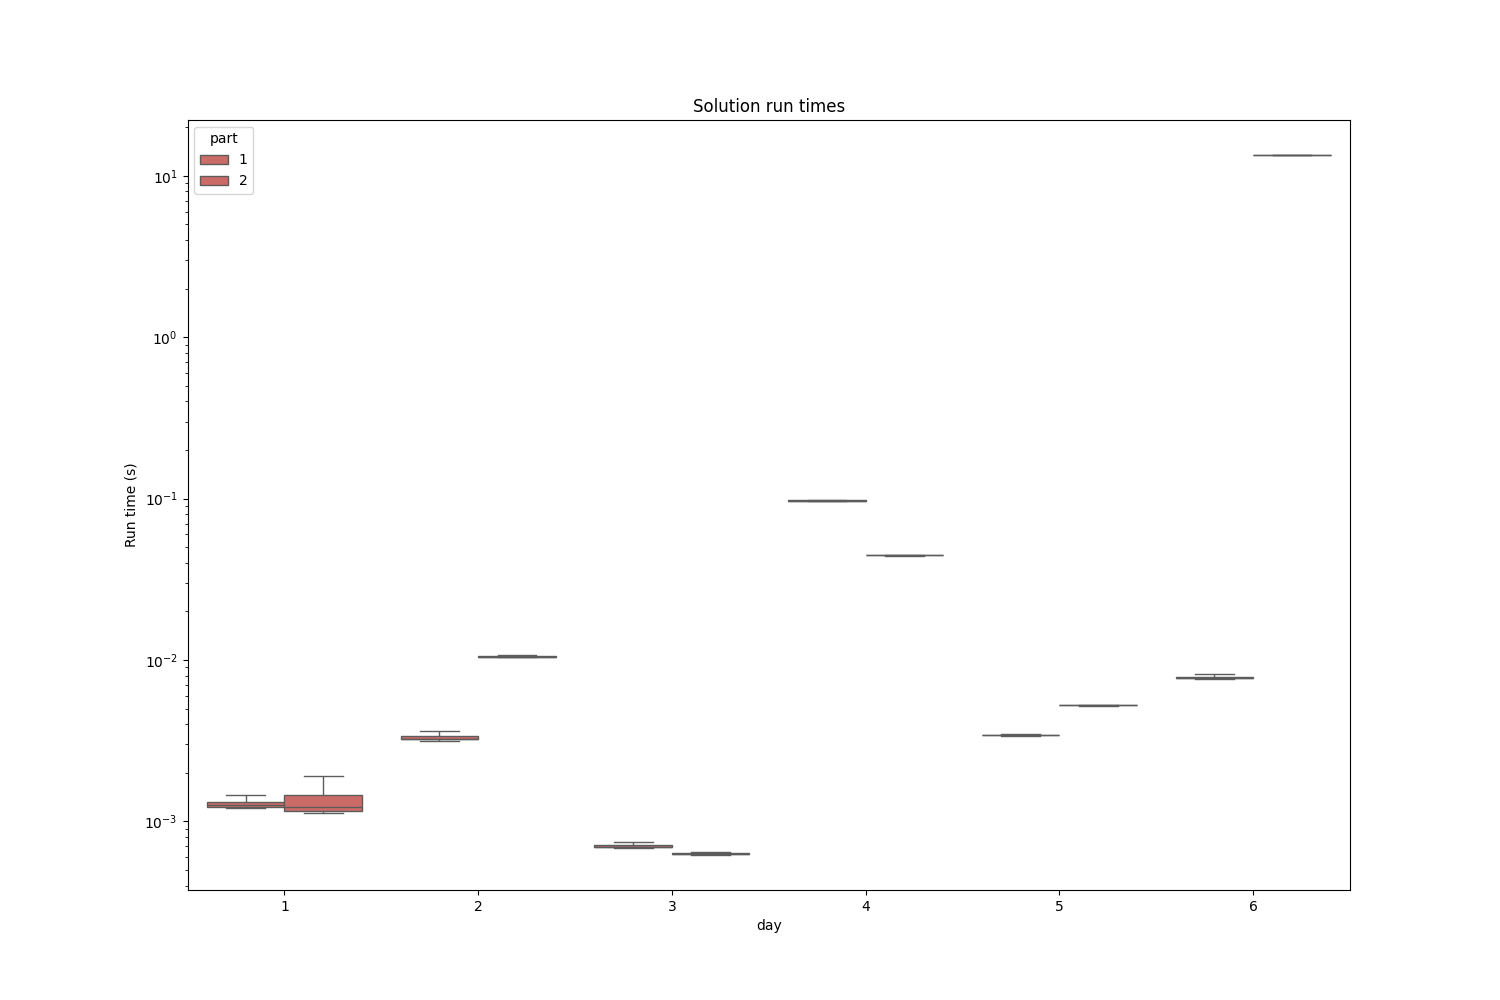
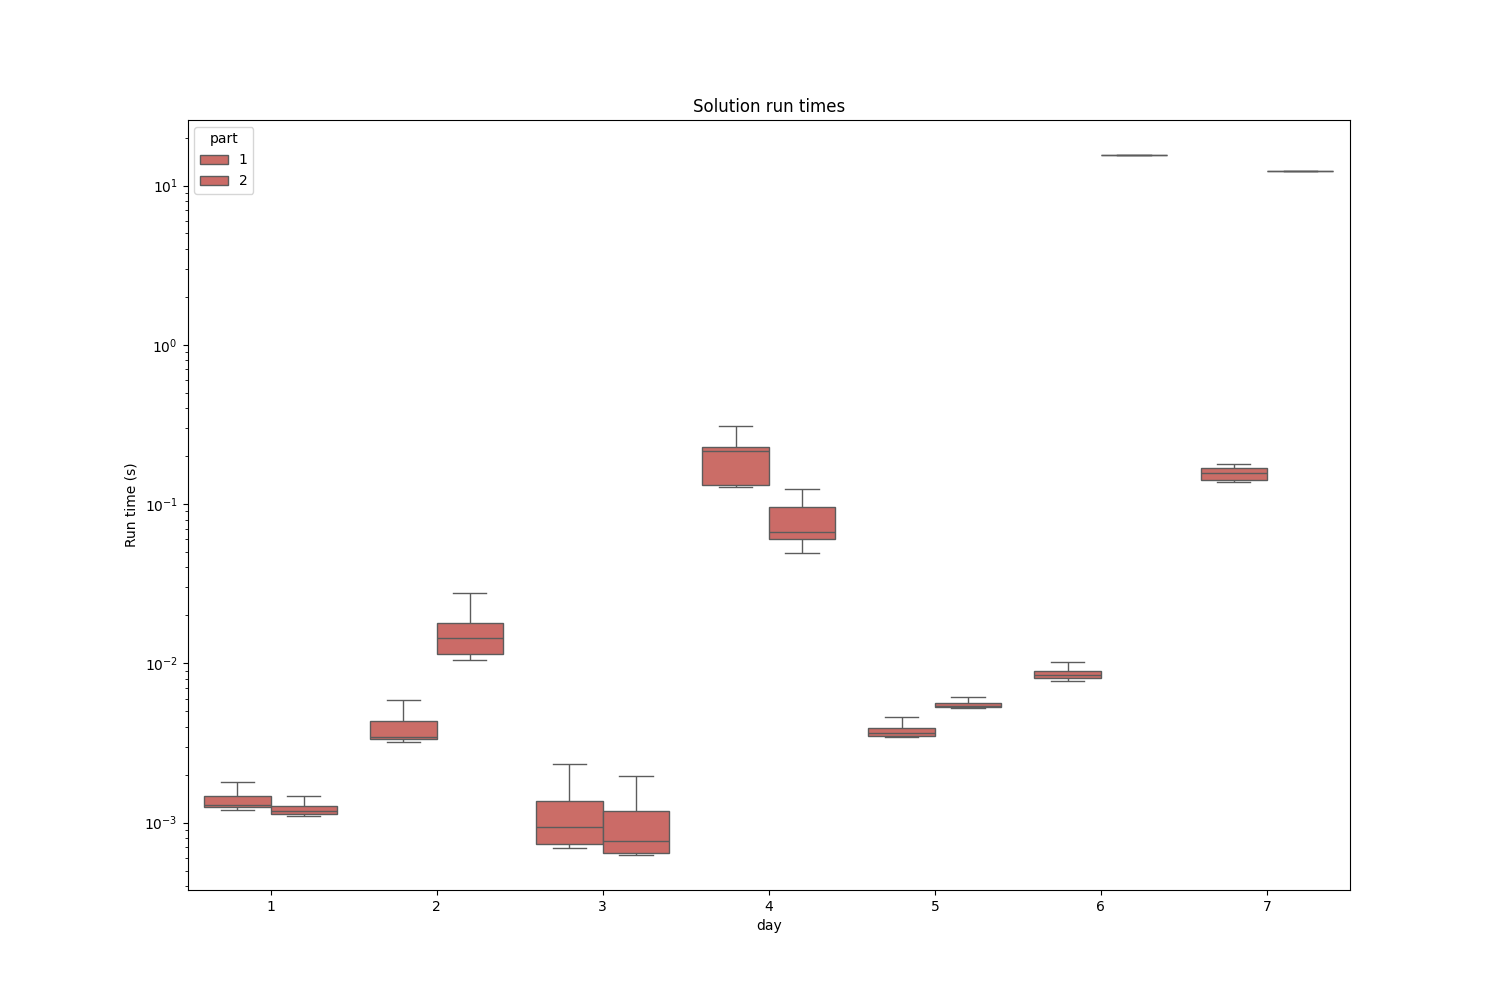
day 7

diff --git a/aoc/day_07.py b/aoc/day_07.py
@@ -1,37 +1,32 @@
 def calculate_equations(start: int, remaining: list[int]) -> list[int]:
 
-    options = set()
+    options = []
 
     if len(remaining) == 1:
-        return set([start + remaining[0], start * remaining[0]])
+        return [start + remaining[0], start * remaining[0]]
 
-    options |= calculate_equations(start + remaining[0], remaining[1:])
-    options |= calculate_equations(start * remaining[0], remaining[1:])
+    options += calculate_equations(start + remaining[0], remaining[1:])
+    options += calculate_equations(start * remaining[0], remaining[1:])
 
     return options
-
 
 def calculate_equations_two(start: int, remaining: list[int]) -> list[int]:
 
-    options = set()
+    options = []
 
     if len(remaining) == 1:
-        return set(
-            [
-                start + remaining[0],
-                start * remaining[0],
-                int("".join([str(start), str(remaining[0])])),
+        return [
+            start + remaining[0],
+            start * remaining[0],
+            int("".join([str(start), str(remaining[0])]))
             ]
-        )
 
-    options |= calculate_equations_two(start + remaining[0], remaining[1:])
-    options |= calculate_equations_two(start * remaining[0], remaining[1:])
-    options |= calculate_equations_two(
-        int("".join([str(start), str(remaining[0])])), remaining[1:]
-    )
+    options += calculate_equations_two(start + remaining[0], remaining[1:])
+    options += calculate_equations_two(start * remaining[0], remaining[1:])
+    options += calculate_equations_two(int("".join([str(start), str(remaining[0])])), remaining[1:])
+
 
     return options
-
 
 def part_one(file_path: str):
     """[summary]
@@ -51,7 +46,7 @@ def part_one(file_path: str):
         target, values = line.split(": ")
         target = int(target)
         values = list(map(int, values.split(" ")))
-        if target in calculate_equations(target, values[0], values[1:]):
+        if target in calculate_equations(values[0], values[1:]):
             total += target
 
     return total
@@ -67,7 +62,7 @@ def part_two(file_path: str):
         [type]: [description]
     """
 
-    # read file
+   # read file
     with open(file_path) as f:
         lines = f.readlines()
     total = 0
